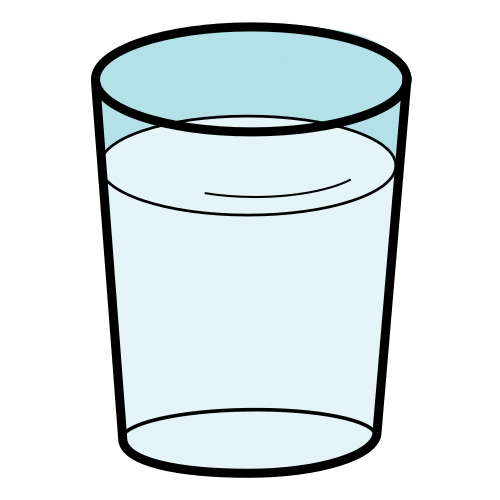
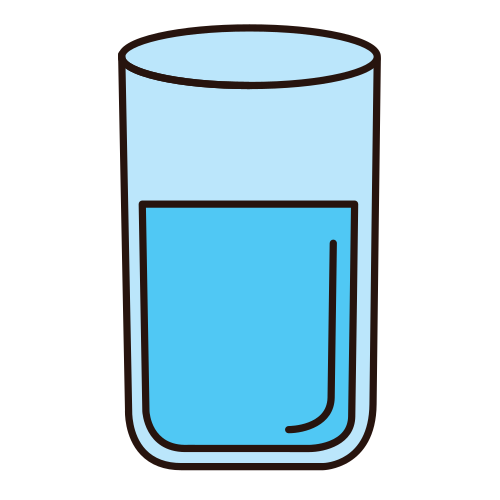
Added colors

diff --git a/script.js b/script.js
@@ -2,62 +2,77 @@ const buttons = [
     {
         text: "Yes",
         image: "Images/yes.png",
+        category: "importantandnegation"
     },
     {
         text: "No",
         image: "Images/no.png",
+        category: "importantandnegation"
     },
     {
         text: "Please",
         image: "Images/please.png",
+        category: "socialandpreposition"
     },
     {
         text: "Thank you",
         image: "Images/thank you.png",
+        category: "socialandpreposition"
     },
     {
         text: "More",
         image: "Images/more.png",
+        category: "adverb"
     },
     {
         text: "Stop",
         image: "Images/stop.png",
+        category: "verb"
     },
     {
         text: "Bathroom",
         image: "Images/bathroom.png",
+        category: "noun"
     },
     {
         text: "Hungry",
         image: "Images/hungry.png",
+        category: "adjective"
     },
     {
         text: "Thirsty",
         image: "Images/thirsty.png",
+        category: "adjective"
     },
     {
         text: "Pain",
         image: "Images/pain.png",
+        category: "noun"
     },
     {
         text: "Water",
         image: "Images/water.png",
+        category: "noun"
     },
     {
         text: "Oreos",
         image: "Images/oreos.png",
+        category: "noun"
     },
     {
         text: "Oatmeal",
         image: "Images/oatmeal.png",
+        category: "noun"
     },
     {
         text: "Rice",
         image: "Images/rice.png",
+        category: "noun"
     },
     {
         text: "iPad",
         image: "Images/ipad.png",
+        category: "noun"
     }
 ];
 
@@ -92,7 +107,7 @@ buttons.forEach(text => {
 buttons.forEach(item => {
 
     const button = document.createElement("button");
-    button.classList.add("communication-button");
+    button.classList.add("communication-button", item.category);
 
     const image = document.createElement("img");
     image.src = item.image;

diff --git a/style.css b/style.css
@@ -29,7 +29,7 @@ body {
     font-family: Arial, sans-serif;
 
     /* Light gray background */
-    background: #f2f2f2;
+    background: #212121;
 
     /*
      * Use Flexbox to position the header
@@ -227,6 +227,56 @@ header h1 {
     overflow: hidden;
 }
 
+/* Nouns - Orange */
+.communication-button.noun {
+    background-color: rgb(255, 196, 86);
+}
+
+/* Pronouns - Yellow */
+.communication-button.pronoun {
+    background-color: rgb(255, 255, 127);
+}
+
+/* Verbs - Green */
+.communication-button.verb {
+    background-color: #8dd98f;
+}
+
+/* Adjectives - Blue */
+.communication-button.adjective {
+    background-color: #8ac4f3;
+}
+
+/* Prepositions / Social words - Pink */
+.communication-button.socialandpreposition {
+    background-color: #fba8d2;
+}
+
+/* Questions - Purple */
+.communication-button.question {
+    background-color: #bf8fc8;
+}
+
+/* Negation / Important - Red */
+.communication-button.importantandnegation {
+    background-color: #e88b85;
+}
+
+/* Adverbs - Brown */
+.communication-button.adverb {
+    background-color: #997260;
+}
+
+/* Conjunctions - White */
+.communication-button.conjunction {
+    background-color: white;
+}
+
+/* Determiners - Gray */
+.communication-button.determiner {
+    background-color: #9e9e9e;
+}
+
 
 /*
  * Images inside communication buttons
@@ -265,4 +315,5 @@ header h1 {
      * being pressed to provide visual feedback.
      */
     transform: scale(0.97);
+    filter: brightness(90%);
 }

diff --git a/index.html b/index.html
@@ -4,7 +4,7 @@
     <meta charset="UTF-8">
     <meta name="viewport" content="width=device-width, initial-scale=1.0">
 
-    <title>Communication Board</title>
+    <title>Nemo's Communication Board</title>
 
     <link rel="stylesheet" href="style.css">
     <link rel="icon" type="image/png" href="Images/icon_resized.png">
@@ -13,7 +13,7 @@
 <body>
 
     <header>
-        <h1>Communication Board</h1>
+        <h1>Nemo's Communication Board</h1>
     </header>
 
     <div class="board-container">
